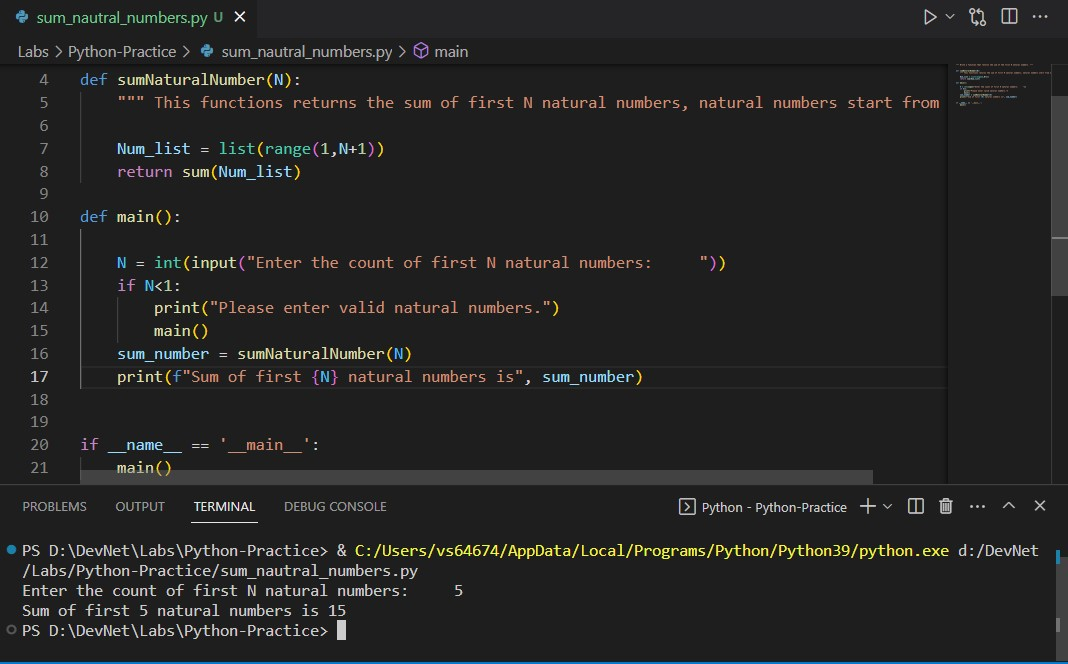
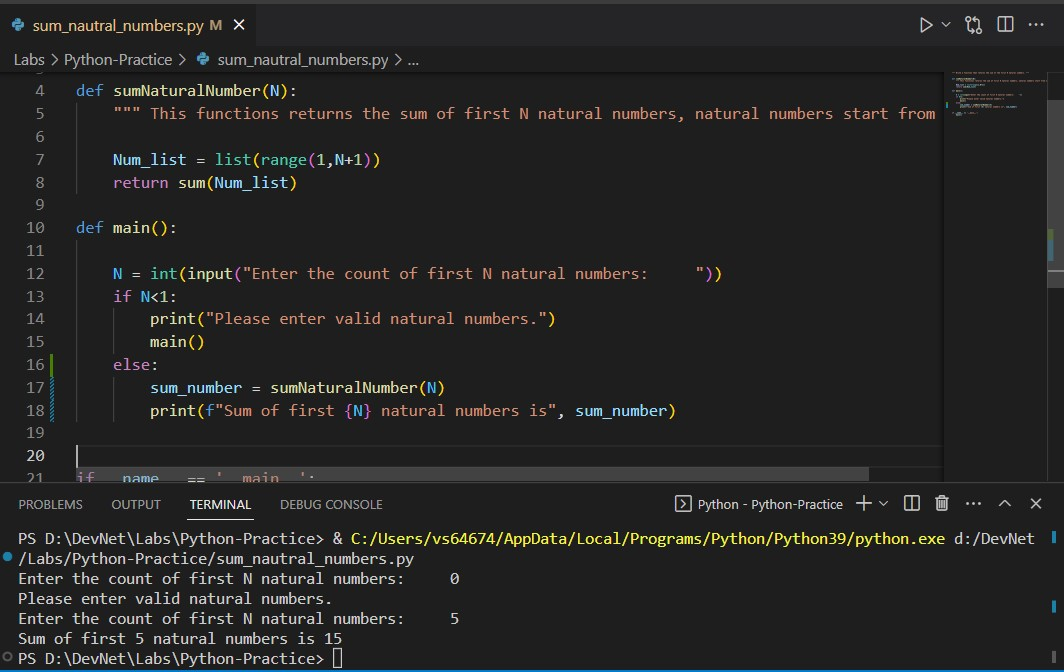
Modify Labs

diff --git a/Labs/Python-Practice/sum_nautral_numbers.py b/Labs/Python-Practice/sum_nautral_numbers.py
@@ -13,8 +13,9 @@ def main():
     if N<1:
         print("Please enter valid natural numbers.")
         main()
-    sum_number = sumNaturalNumber(N)
-    print(f"Sum of first {N} natural numbers is", sum_number)
+    else:
+        sum_number = sumNaturalNumber(N)
+        print(f"Sum of first {N} natural numbers is", sum_number)
 
 
 if __name__ == '__main__':
